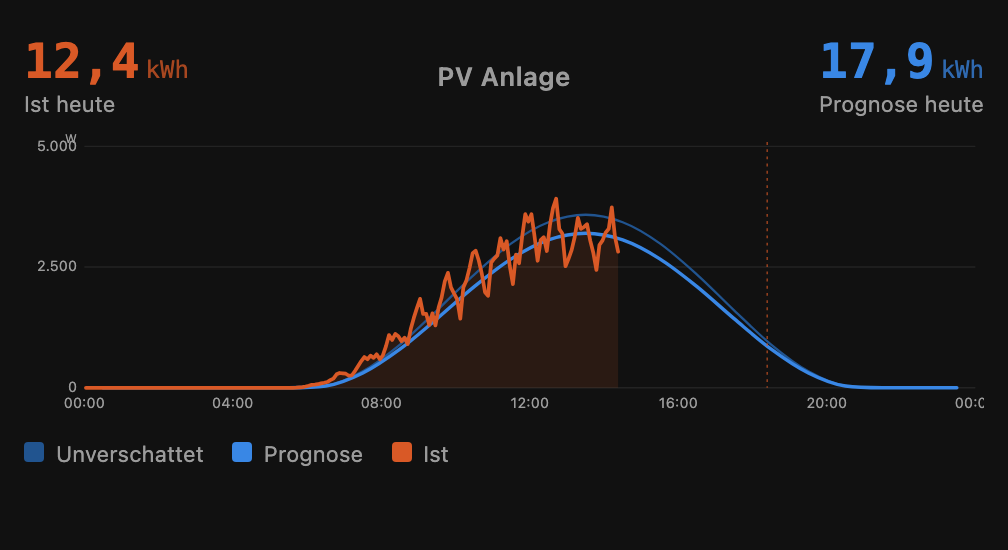
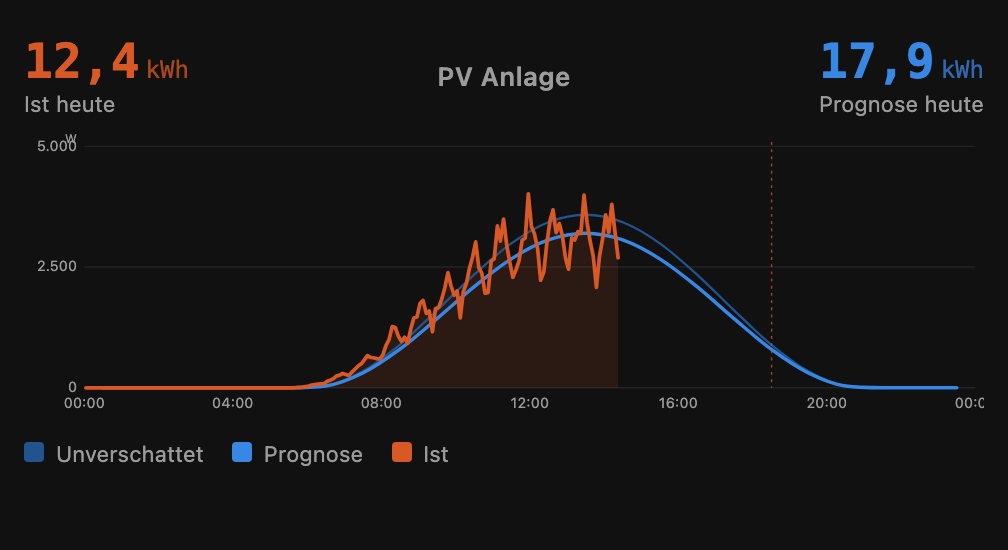
Sky map: violet shadow ramp — saturation the grey ramp lacked (0.10.0)

Changed region(s): [[0.369, 0.34, 0.6151, 0.6491], [0.3383, 0.6491, 0.369, 0.68]]

diff --git a/pvstrings-dash.js b/pvstrings-dash.js
@@ -26,7 +26,7 @@
 
 /* ============================ SECTION: HEADER ============================ */
 
-const PVS_VERSION = "0.9.2";
+const PVS_VERSION = "0.10.0";
 const PVS_MIN_INTEGRATION = "1.8.0";
 
 /* ============================ SECTION: CONST ============================= */
@@ -582,12 +582,17 @@ function t(hass, key, vars) {
 //   step of the same hue, measurement = orange, loss = violet sequential.
 // Loss ramp = shadow ramp: light means clear sky, dark means shadow — the
 // iconic mapping (shading IS darkness) needs no legend to be learned. The
-// direction is the SAME in both themes (a sunny sky is bright, also at
-// night-mode); the dark end carries a cool violet cast, like real shadows.
-const LOSS_RAMP_LIGHT = ["#f4f2ee", "#e0ddd8", "#c8c5c2", "#aaa8a8",
-  "#8a888d", "#68656f", "#454250", "#262230"];
-const LOSS_RAMP_DARK = ["#eceae5", "#d3d0cc", "#b5b2b1", "#959398",
-  "#75727c", "#555260", "#393647", "#262230"];
+// direction is the SAME in both themes (a sunny sky is bright, also in
+// night mode).
+// The hue is violet and genuinely saturated, not a grey with a cast: a
+// near-neutral dark end sank into the card background on dark themes, which
+// put the deepest shadow within a whisker of an unobserved cell — the one
+// collision this map must never have. Violet also sits opposite the orange
+// sun marker and clear of the model blue, so all three read apart.
+const LOSS_RAMP_LIGHT = ["#f4f0fd", "#e5dbfa", "#d1bef5", "#b79ced",
+  "#9a77e0", "#7d55cd", "#6139b0", "#48268c"];
+const LOSS_RAMP_DARK = ["#f0ebfd", "#ded2fa", "#c6b2f3", "#ab8ee9",
+  "#8f6ada", "#744ec5", "#5c3aa8", "#472c86"];
 
 const BASE_CSS = `
   :host {

diff --git a/SPEC.md b/SPEC.md
@@ -43,7 +43,11 @@ drawn, not the full hemisphere — a plant sees maybe a third of it.
 
 **Colour.** Loss is a magnitude, so a *sequential* ramp: one hue, light to dark.
 Not the blue-to-red currently in use — that is a diverging ramp doing a
-sequential job, and it invents a meaningless midpoint.
+sequential job, and it invents a meaningless midpoint. The hue is violet and
+carries real saturation: a near-neutral dark end sinks into the card
+background on dark themes, which puts the deepest shadow within a whisker of
+an unobserved cell — the one collision this map must never have. Violet also
+sits opposite the orange sun marker and clear of the model blue.
 
 **Unobserved cells are not on the ramp at all.** Neutral fill, or hatched. A
 cell the sun has never crossed must not read as a cell with no loss; they mean
